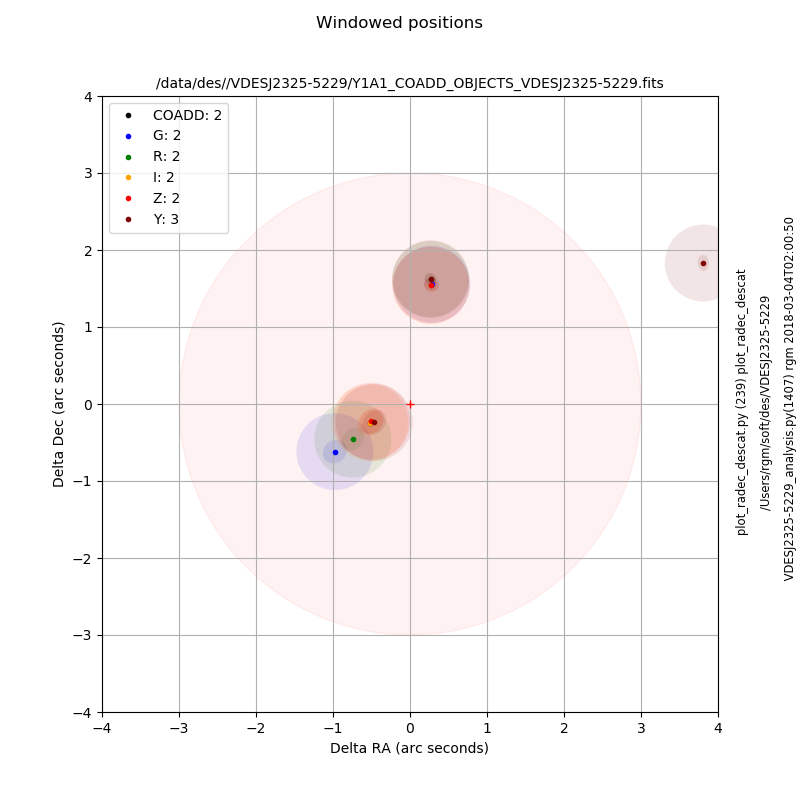
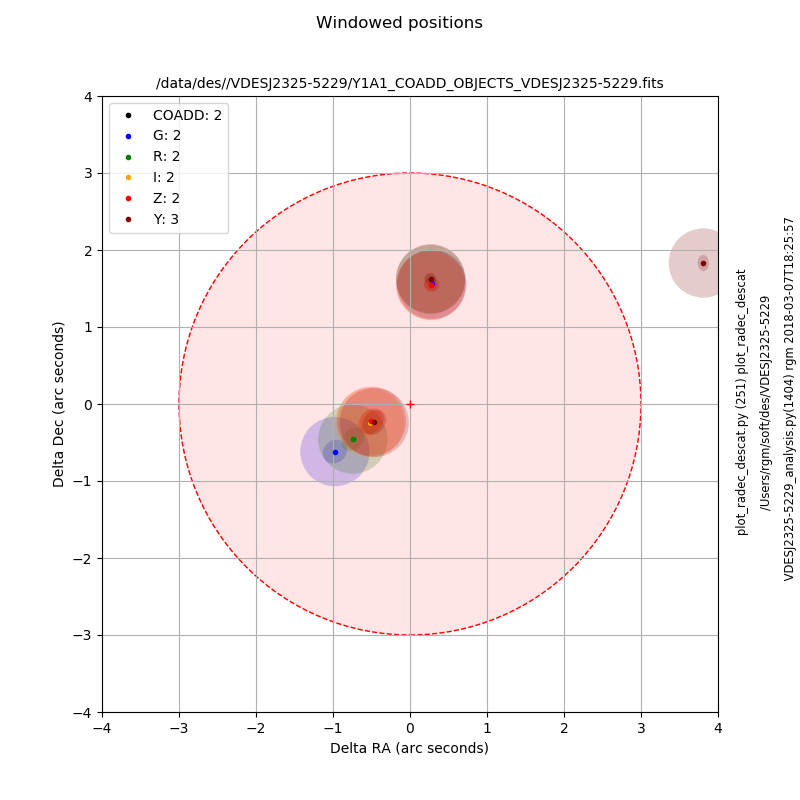
modified:   DESJ0408-5354_COADD_radec.png 	modified:   VDESJ2325-5229_COADD_radec.png 	modified:   VDESJ2325-5229_analysis.py 	modified:   plot_radec_descat.py 	modified:   plot_radec_wisecat.py

diff --git a/VDESJ2325-5229/plot_radec_descat.py b/VDESJ2325-5229/plot_radec_descat.py
@@ -6,7 +6,7 @@ from librgm.plotid import plotid
 
 def plot_radec_descat(data=None,
                       source=None,
-                      radius = 0.45,
+                      radius = 0.45, alpha=0.2,
                       radec_centre=None,
                       xrange = [-2.5, 2.5],
                       yrange = [-2.5, 2.5],
@@ -183,10 +183,10 @@ def plot_radec_descat(data=None,
 
         FLAGS = data['FLAGS_' + WAVEBAND][itest]
 
-        alpha = 0.2
-        for i, id in enumerate(xdata):
+        # loop through the sources
+        for i, ra, in enumerate(xdata):
 
-            # plot the sources as circles
+            # plot the sources as colored filled circles
             circle = Circle([delta_ra[i], delta_dec[i]], radius,
                 edgecolor='none', facecolor=colors[iband], alpha=alpha)
             plt.gca().add_patch(circle)
@@ -227,10 +227,10 @@ def plot_radec_descat(data=None,
                 "{:7.1f}".format(XMAX_IMAGE[i]),
                 "{:7.1f}".format(YMIN_IMAGE[i]),
                 "{:7.1f}".format(YMAX_IMAGE[i]),
-                "{:5.1f}".format(XMAX_IMAGE[i]-XMIN_IMAGE[i]),
-                "{:5.1f}".format(YMAX_IMAGE[i]-YMIN_IMAGE[i]),
-                "{:7.1f}".format((XMIN_IMAGE[i]+XMAX_IMAGE[i])/2.0),
-                "{:7.1f}".format((YMIN_IMAGE[i]+YMAX_IMAGE[i])/2.0),
+                "{:5.1f}".format(XMAX_IMAGE[i] - XMIN_IMAGE[i]),
+                "{:5.1f}".format(YMAX_IMAGE[i] - YMIN_IMAGE[i]),
+                "{:7.1f}".format((XMIN_IMAGE[i] + XMAX_IMAGE[i]) / 2.0),
+                "{:7.1f}".format((YMIN_IMAGE[i] + YMAX_IMAGE[i]) / 2.0),
                 "{:4d}".format(FLAGS[i]))
 
             # plot as ellipse using the

diff --git a/VDESJ2325-5229/plot_radec_wisecat.py b/VDESJ2325-5229/plot_radec_wisecat.py
@@ -6,7 +6,7 @@ from librgm.plotid import plotid
 
 
 def plot_radec_wisecat(data=None,
-                       source=None,
+                       source=None, radius=3.0,
                        radec_centre=None,
                        xrange = [-2.5, 2.5],
                        yrange = [-2.5, 2.5],
@@ -15,6 +15,9 @@ def plot_radec_wisecat(data=None,
                        showplot=False,
                        debug=False):
     """
+
+    # WISE W1 FWHM = 6.0 arcsecs
+    radius = 6.0/2.0 = 3.0
 
 
     """
@@ -71,8 +74,6 @@ def plot_radec_wisecat(data=None,
     print(xrange)
     print(yrange)
 
-    # WISE W1 FWHM = 6.0 arcsecs
-    radius = 6.0/2.0
 
     # include the psf radius so that sources that near edge are plotted
     itest = (xdata > (xrange[0] - radius)) & \
@@ -93,9 +94,18 @@ def plot_radec_wisecat(data=None,
     for x, y in zip(xdata, ydata):
         print(x, y, radius)
         circle = plt.Circle((x, y), radius,
-                            color='red', alpha=0.05,
-                            edgecolor='red')
+                            color='red', alpha=0.1,
+                            edgecolor='red',
+                            linestyle='dashed', linewidth=1.0)
         ax.add_artist(circle)
+
+        # draw line around edge with alpha = 1.0
+        circle = plt.Circle((x, y), radius, fill=False,
+                            color='red', alpha=1.0,
+                            edgecolor='red',
+                            linestyle='dashed', linewidth=1.0)
+        ax.add_artist(circle)
+
 
     plt.plot(xdata, ydata, '+', color='red')
     plt.xlim(xrange)

diff --git a/VDESJ2325-5229/VDESJ2325-5229_analysis.py b/VDESJ2325-5229/VDESJ2325-5229_analysis.py
@@ -795,6 +795,15 @@ def getargs():
     parser.set_defaults(source='VDESJ2325-5229')
     parser.add_argument("--source",
                         help="source  as a string")
+
+    parser.set_defaults(summaryfile=None)
+    parser.add_argument("--summaryfile",
+                        help="summary file with sample")
+
+    parser.set_defaults(mastercat=None)
+    parser.add_argument("--mastercat",
+                        help="Analysis of mastercat")
+
     parser.set_defaults(band='i')
     parser.add_argument("--band",
                         help="waveband [g, r, i, z, Y]")
@@ -1392,7 +1401,7 @@ if __name__ == "__main__":
 
     if format == 'COADD':
 
-        plt = plot_radec_descat(data=data,
+        plt = plot_radec_descat(data=data, radius=0.45,
                                 source=source,
                                 radec_centre=(ra0, dec0),
                                 xrange=xrange,
@@ -1404,7 +1413,7 @@ if __name__ == "__main__":
                                 debug=debug)
 
         if filename_wise is not None:
-            plt = plot_radec_wisecat(data=wisedata,
+            plt = plot_radec_wisecat(data=wisedata, radius=3.0,
                                      source=source,
                                      radec_centre=(ra0, dec0),
                                      xrange=xrange,
